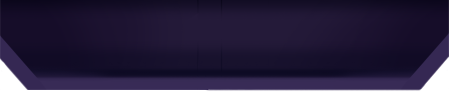
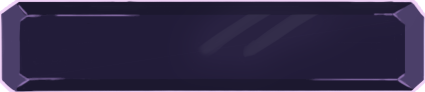
assets update

diff --git a/ts/States/Menu.ts b/ts/States/Menu.ts
@@ -42,11 +42,8 @@ export default class Menu extends Phaser.State
         this._backgroundSprite = this.game.add.sprite(0, 0, Atlases.Interface, 'ui_menu_background');
         this._backgroundSprite.anchor.set(.5, 1);
 
-        this._title = this.game.add.sprite(0, 0, Atlases.Interface, 'ui_menu_ondergrond_logo');
+        this._title = this.game.add.sprite(0, 0, Atlases.Interface, 'ui_menu_logo');
         this._title.anchor.set(.5);
-        let logo: Phaser.Sprite = new Phaser.Sprite(this.game, 0, 0, Atlases.Interface, 'ui_menu_logo');
-        logo.anchor.set(.5);
-        this._title.addChild(logo);
 
         this._buttonContainers = this.createButtonContainers();
         this.add.existing(this._buttonContainers);
@@ -73,21 +70,17 @@ export default class Menu extends Phaser.State
     {
         let group: Phaser.Group = new Phaser.Group(this.game);
 
-        let background: Phaser.Sprite = new Phaser.Sprite(this.game, 0, 0, Atlases.Interface, 'ui_menu_ondergrond');
-        background.anchor.set(.5);
-        group.add(background);
-
-        let playButton: TextButton = new TextButton(this.game, 0, -200, 'Play', () => {
+        let playButton: TextButton = new TextButton(this.game, 0, -200, 'MainMenu_PlayButton', '', () => {
             this.state.start(Gameplay.Name, true, false, this.game.world.generateTexture());
         }, this);
         group.add(playButton);
 
-        let howToPlayButton: TextButton = new TextButton(this.game, 0, 0, 'How to play', () => {
+        let howToPlayButton: TextButton = new TextButton(this.game, 0, 0, 'ui_ingame_highscore_backdrop', 'How to play', () => {
             this.state.start(HowToPlay.Name);
         }, this);
         group.add(howToPlayButton);
 
-        let testButton: TextButton = new TextButton(this.game, 0, 200, 'Test', () => {
+        let testButton: TextButton = new TextButton(this.game, 0, 200, 'MainMenu_QuitButton', '', () => {
             this.state.start(Test.Name);
         }, this);
         group.add(testButton);
@@ -98,7 +91,7 @@ export default class Menu extends Phaser.State
     {
         let group: Phaser.Group = new Phaser.Group(this.game);
 
-        let settingButton: ImageButton = new ImageButton(this.game, 100, 0, 'ui_icon_settings', () => {
+        let settingButton: ImageButton = new ImageButton(this.game, 100, 0, 'ui_ingame_button_settings', () => {
             //
         }, this);
         group.add(settingButton);

diff --git a/ts/UI/PauseMenu.ts b/ts/UI/PauseMenu.ts
@@ -18,17 +18,17 @@ export default class PauseMenu extends BasePopUp
     {
         super(game, scale, buttonOffset, spaceBetweenButtons, backgroundImage);
 
-        this._continueGameButton = new TextButton(game, 0,  buttonOffset - spaceBetweenButtons * 2, 'Continue', this.continue, this);
+        this._continueGameButton = new TextButton(game, 0,  buttonOffset - spaceBetweenButtons * 2, 'ui_ingame_highscore_backdrop', 'Continue', this.continue, this);
         this._continueGameButton.anchor.set(0.5);
         this._continueGameButton.scale.set(scale);
         this.addChild(this._continueGameButton);
 
-        this._sfxButton = new TextButton(game, - spaceBetweenButtons, buttonOffset +  spaceBetweenButtons, 'SFX', this.sfxToggle, this);
+        this._sfxButton = new TextButton(game, - spaceBetweenButtons, buttonOffset +  spaceBetweenButtons, 'ui_ingame_highscore_backdrop', 'SFX', this.sfxToggle, this);
         this._sfxButton.anchor.set(0.5);
         this.addChild(this._sfxButton);
         this._sfxButton.scale.set(scale);
 
-        this._musicButton = new TextButton(game, spaceBetweenButtons, buttonOffset + spaceBetweenButtons, 'M', this.musicToggle, this);
+        this._musicButton = new TextButton(game, spaceBetweenButtons, buttonOffset + spaceBetweenButtons, 'ui_ingame_highscore_backdrop', 'M', this.musicToggle, this);
         this._musicButton.anchor.set(0.5);
         this.addChild(this._musicButton);
         this._musicButton.scale.set(scale);

diff --git a/ts/States/Gameplay.ts b/ts/States/Gameplay.ts
@@ -107,11 +107,11 @@ export default class Gameplay extends Phaser.State
         this._gameOverScreen = new GameOverScreen(this.game, 0.6, 120, 125, Images.PopUpMenuBackground);
 
         this._scoreText = this.game.add.bitmapText(0, 0, 'myfont', 'Score: 0');
-        this._scoreText.fontSize = 50;
+        this._scoreText.fontSize = 40;
         this._scoreText.anchor.set(0.5, 0);
 
         this._highScoreText = this.game.add.bitmapText(0, 0, 'myfont', 'Highscore: ' + Constants.HighScore);
-        this._highScoreText.fontSize = 20;
+        this._highScoreText.fontSize = 15;
         this._highScoreText.anchor.set(0.5, 0);
 
         this._timerClass.onTimeEnd.add(this.gameOverScreen, this);
@@ -231,9 +231,10 @@ export default class Gameplay extends Phaser.State
         this._character.position.set(this.game.width / 2, this.game.height * .4);
 
         this._scoreText.x = this.game.width / 2;
+        this._scoreText.y = this.game.width * 0.02;
         this._scoreText.scale.set(this.game.width / GAME_WIDTH, this.game.width / GAME_WIDTH);
         this._highScoreText.x = this.game.width / 2;
-        this._highScoreText.y = this.game.width * 0.07;
+        this._highScoreText.y = this.game.width * 0.08;
         this._highScoreText.scale.set(this.game.width / GAME_WIDTH, this.game.width / GAME_WIDTH);
 
     }

diff --git a/ts/UI/BasePopUp.ts b/ts/UI/BasePopUp.ts
@@ -34,13 +34,13 @@ export default class BasePopUp extends Phaser.Group
         this._titleText.scale.set(scale, scale);
         this.addChild(this._titleText);
 
-        this._backToMenuButton = new TextButton(game, 0, buttonOffset - spaceBetweenButtons, 'Back To Menu', this.backToMenu, this);
+        this._backToMenuButton = new TextButton(game, 0, buttonOffset - spaceBetweenButtons, 'ui_ingame_highscore_backdrop', 'Back To Menu', this.backToMenu, this);
         this._backToMenuButton.anchor.set(0.5);
         this.addChild(this._backToMenuButton);
         this._backToMenuButton.scale.set(scale);
         this.visible = false;
 
-        this._resetButton = new TextButton(game, 0, buttonOffset, 'Reset Game', this.restartScene, this);
+        this._resetButton = new TextButton(game, 0, buttonOffset, 'ui_ingame_highscore_backdrop', 'Reset Game', this.restartScene, this);
         this._resetButton.anchor.set(0.5);
         this.addChild(this._resetButton);
         this._resetButton.scale.set(scale);

diff --git a/ts/UI/TextButton.ts b/ts/UI/TextButton.ts
@@ -5,9 +5,9 @@ export default class TextButton extends Phaser.Button
 {
     private _label: Phaser.BitmapText;
 
-    constructor(game: Phaser.Game, x: number, y: number, text: string, callback: Function, callbackContext: any)
+    constructor(game: Phaser.Game, x: number, y: number, key: string, text: string, callback: Function, callbackContext: any)
     {
-        super(game, x, y, Atlases.Interface, callback, callbackContext, 'ui_menu_button', 'ui_menu_button', 'ui_menu_button');
+        super(game, x, y, Atlases.Interface, callback, callbackContext, key, key, key);
 
         this.anchor.set(.5);
 

diff --git a/ts/Objects/GameObjects/GameField.ts b/ts/Objects/GameObjects/GameField.ts
@@ -296,7 +296,7 @@ export default class GameField extends Phaser.Group
     {
         super.destroy(true);
 
-        for (let i: number = this._shineSprites.length; i--) {
+        for (let i: number = this._shineSprites.length; i--;) {
             this._shineSprites[i].destroy(true);
             this._shineSprites[i] = null;
         }
